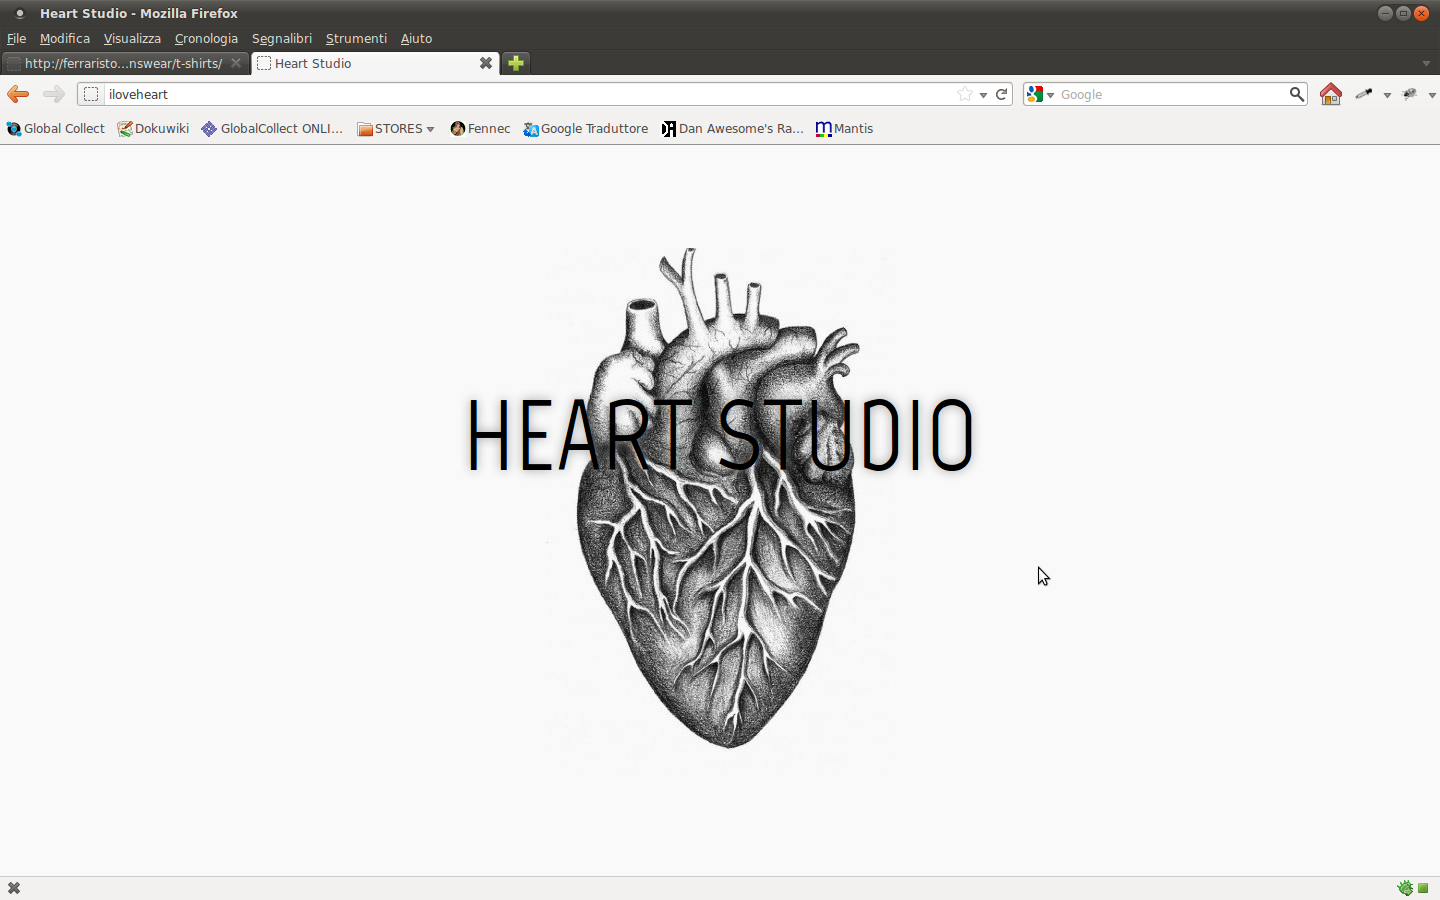
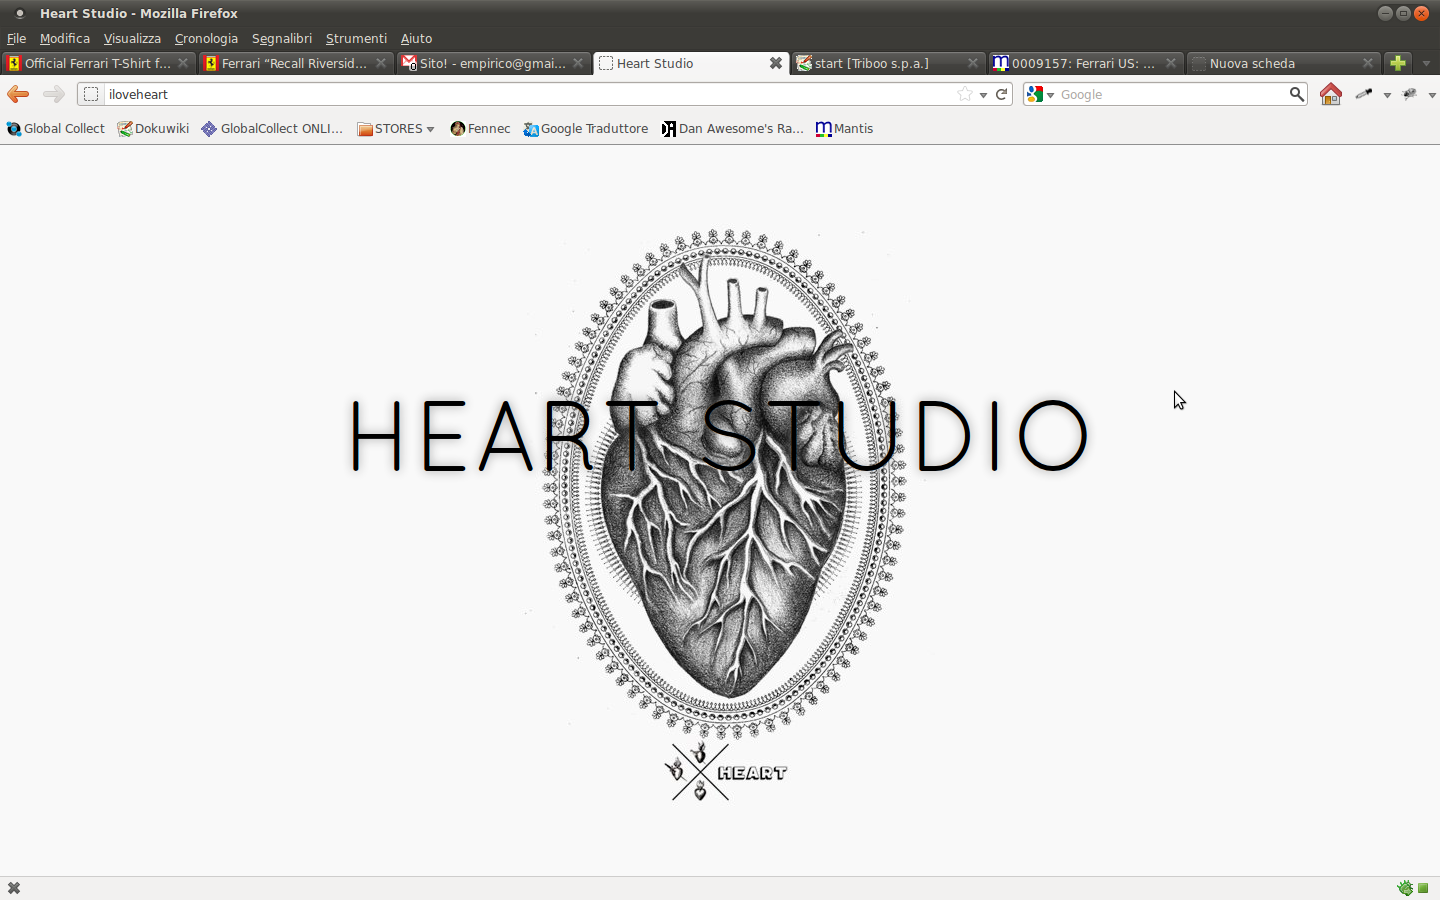
redo hp statica e anche quella dinamica

Changed region(s): [[0.2188, 0.2489, 0.75, 0.9022], [0.0, 0.0311, 1.0, 0.0933], [0.75, 0.4667, 0.7812, 0.4978]]

diff --git a/html/index.html b/html/index.html
@@ -1,27 +1,35 @@
 <!DOCTYPE html PUBLIC "-//W3C//DTD XHTML 1.0 Strict//EN" "http://www.w3.org/TR/xhtml1/DTD/xhtml1-strict.dtd">
 <html>
-  <head>
-    <meta http-equiv="Content-Type" content="text/html; charset=UTF-8">
-    <title>Heart Studio</title>
-    <link href='http://fonts.googleapis.com/css?family=Marvel' rel='stylesheet' type='text/css'>
-    <link href="index_files/style.css" media="screen" rel="stylesheet" type="text/css">
-    <script type="text/javascript">
+    <head>
+        <meta http-equiv="Content-Type" content="text/html; charset=utf-8" />
+        <title>Heart Studio</title>
+        <link href="http://fonts.googleapis.com/css?family=Quicksand" media="screen" rel="stylesheet" type="text/css" />
+        <link href="index_files/style.css" media="screen" rel="stylesheet" type="text/css" />
+        <script type="text/javascript">
+            var lang = 'it';
+        </script>
+        <script type="text/javascript">
 
-      var _gaq = _gaq || [];
-      _gaq.push(['_setAccount', 'UA-27107614-1']);
-      _gaq.push(['_trackPageview']);
+            var _gaq = _gaq || [];
+            _gaq.push(['_setAccount', 'xxxxxxxxxxxxxxxxx']);
+            _gaq.push(['_trackPageview']);
 
-      (function() {
-        var ga = document.createElement('script'); ga.type = 'text/javascript'; ga.async = true;
-        ga.src = ('https:' == document.location.protocol ? 'https://ssl' : 'http://www') + '.google-analytics.com/ga.js';
-        var s = document.getElementsByTagName('script')[0]; s.parentNode.insertBefore(ga, s);
-      })();
+            (function() {
+                var ga = document.createElement('script'); ga.type = 'text/javascript'; ga.async = true;
+                ga.src = ('https:' == document.location.protocol ? 'https://ssl' : 'http://www') + '.google-analytics.com/ga.js';
+                var s = document.getElementsByTagName('script')[0]; s.parentNode.insertBefore(ga, s);
+            })();
 
-    </script>
-  </head>
-  <body>
-    <div id="logo" onclick="javascript:window.location.href='http://www.facebook.com/pages/Heart-Studio/115690515154796'">
-        <h1>heart studio</h1>
-    </div>
-  </body>
+        </script>
+    </head>
+    <body class="splash">
+        <div id="wrapper">
+            <div id="main_content">
+                <div id="content">
+                    <p id="splash_screen"><a href="http://www.facebook.com/pages/Heart-Studio/115690515154796"><img src="index_files/pix.gif" border="0" height="450"></a></p>
+                </div>
+            </div>
+            <div class="push"></div>
+        </div>
+    </body>
 </html>

diff --git a/html/index_files/style.css b/html/index_files/style.css
@@ -1,5 +1,21 @@
 @CHARSET "UTF-8";
 * {padding: 0px; margin: 0px;}
-body {font-size: 14px;font-family: 'MarveMarvel', sans-serif; background-color: #f9f9f9;height:100%;}
-#logo {text-align:center;margin: 20px auto;background: url(heart.jpg) no-repeat center;height:540px; cursor: pointer;}
-#logo h1 {padding: 10px;font-size:100px;width:800px;margin:auto;line-height:540px;text-transform: uppercase;text-shadow: 0px 0px 10px #999;}
+body {font-size: 16px;font-family: 'Quicksand', Helvetica, sans-serif;background: #f9f9f9 url(/images/bg_heart_middle.jpg) no-repeat center 30px;}
+body.splash{ height: 523px; background: #f9f9f9 url(bg_heart.jpg) no-repeat center 30px;text-align: center;}
+#main_content {width: 1024px; margin: 0 auto;}
+#content {margin-top: 10px;}
+
+a, a:hover, a:visited {color:#bca474;text-decoration: none;}
+/* generiche */
+.left {float:left;}
+.right {float:right;}
+.clear {clear: both;}
+.box {padding: 5px;}
+
+
+/* COMMON */
+.tagline {text-transform: uppercase;}
+
+/* SPLASH SCREEN */
+p#splash_screen {padding: 10px;font-size:100px;width:800px;margin:auto;line-height:540px;text-transform: uppercase;text-shadow: 0px 0px 10px #999;}
+p#splash_screen a {color: #000; line-height:540px;text-transform: uppercase;text-shadow: 0px 0px 10px #999;text-decoration: none;}
